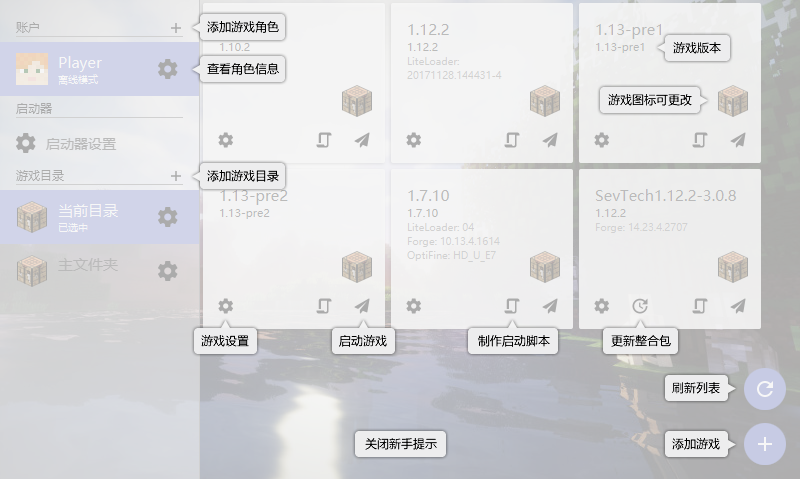
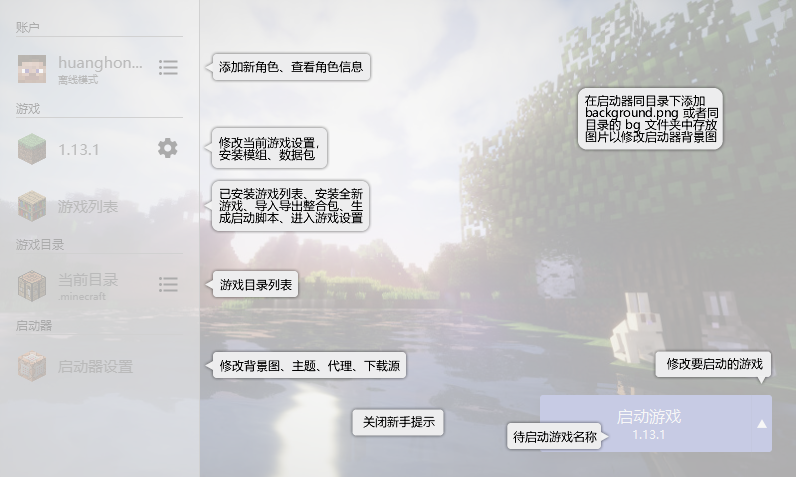
Update welcome.png

diff --git a/HMCL/src/main/java/org/jackhuang/hmcl/setting/Config.java b/HMCL/src/main/java/org/jackhuang/hmcl/setting/Config.java
@@ -145,6 +145,9 @@ public final class Config implements Cloneable, Observable {
     @SerializedName("_version")
     private IntegerProperty configVersion = new SimpleIntegerProperty(0);
 
+    @SerializedName("uiVersion")
+    private IntegerProperty uiVersion = new SimpleIntegerProperty(0);
+
     private transient ObservableHelper helper = new ObservableHelper(this);
 
     public Config() {
@@ -440,4 +443,27 @@ public final class Config implements Cloneable, Observable {
         this.updateChannel.set(updateChannel);
     }
 
+    public int getConfigVersion() {
+        return configVersion.get();
+    }
+
+    public IntegerProperty configVersionProperty() {
+        return configVersion;
+    }
+
+    public void setConfigVersion(int configVersion) {
+        this.configVersion.set(configVersion);
+    }
+
+    public int getUiVersion() {
+        return uiVersion.get();
+    }
+
+    public IntegerProperty uiVersionProperty() {
+        return uiVersion;
+    }
+
+    public void setUiVersion(int uiVersion) {
+        this.uiVersion.set(uiVersion);
+    }
 }

diff --git a/HMCL/src/main/java/org/jackhuang/hmcl/setting/ConfigUpgrader.java b/HMCL/src/main/java/org/jackhuang/hmcl/setting/ConfigUpgrader.java
@@ -29,6 +29,8 @@ import java.util.Map;
 import static org.jackhuang.hmcl.util.Lang.tryCast;
 
 final class ConfigUpgrader {
+    private static final int VERSION = 0;
+
     private ConfigUpgrader() {
     }
 
@@ -37,10 +39,22 @@ final class ConfigUpgrader {
      *
      * @param deserialized deserialized config settings
      * @param rawJson      raw json structure of the config settings without modification
+     * @return true if config version is upgraded
      */
-    static void upgradeConfig(Config deserialized, Map<?, ?> rawJson) {
+    static boolean upgradeConfig(Config deserialized, Map<?, ?> rawJson) {
+        boolean upgraded;
+        if (deserialized.getConfigVersion() < VERSION) {
+            deserialized.setConfigVersion(VERSION);
+            // TODO: Add upgrade code here.
+            upgraded = true;
+        } else {
+            upgraded = false;
+        }
+
         upgradeV2(deserialized, rawJson);
         upgradeV3(deserialized, rawJson);
+
+        return upgraded;
     }
 
     /**

diff --git a/HMCL/src/main/java/org/jackhuang/hmcl/ui/decorator/DecoratorController.java b/HMCL/src/main/java/org/jackhuang/hmcl/ui/decorator/DecoratorController.java
@@ -106,8 +106,11 @@ public class DecoratorController {
             );
             nowAnimation.play();
         });
-        if (ConfigHolder.isNewlyCreated() && config().getLocalization().getLocale() == Locale.CHINA)
+
+        if (ConfigHolder.config().getUiVersion() < Controllers.UI_VERSION && config().getLocalization().getLocale() == Locale.CHINA) {
+            ConfigHolder.config().setUiVersion(Controllers.UI_VERSION);
             decorator.getContainer().setAll(welcomeView);
+        }
 
         setupBackground();
 

diff --git a/HMCL/src/main/java/org/jackhuang/hmcl/ui/Controllers.java b/HMCL/src/main/java/org/jackhuang/hmcl/ui/Controllers.java
@@ -59,6 +59,7 @@ import static org.jackhuang.hmcl.setting.ConfigHolder.config;
 import static org.jackhuang.hmcl.util.i18n.I18n.i18n;
 
 public final class Controllers {
+    public static final int UI_VERSION = 1;
 
     private static Scene scene;
     private static Stage stage;
